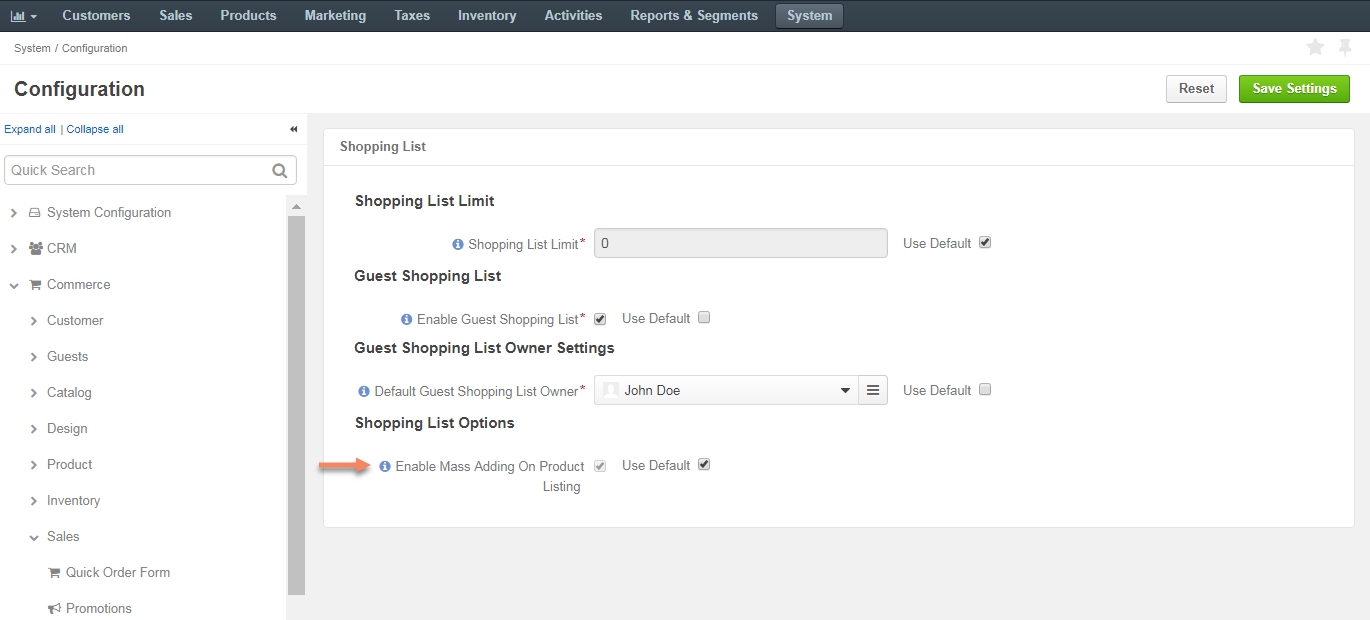
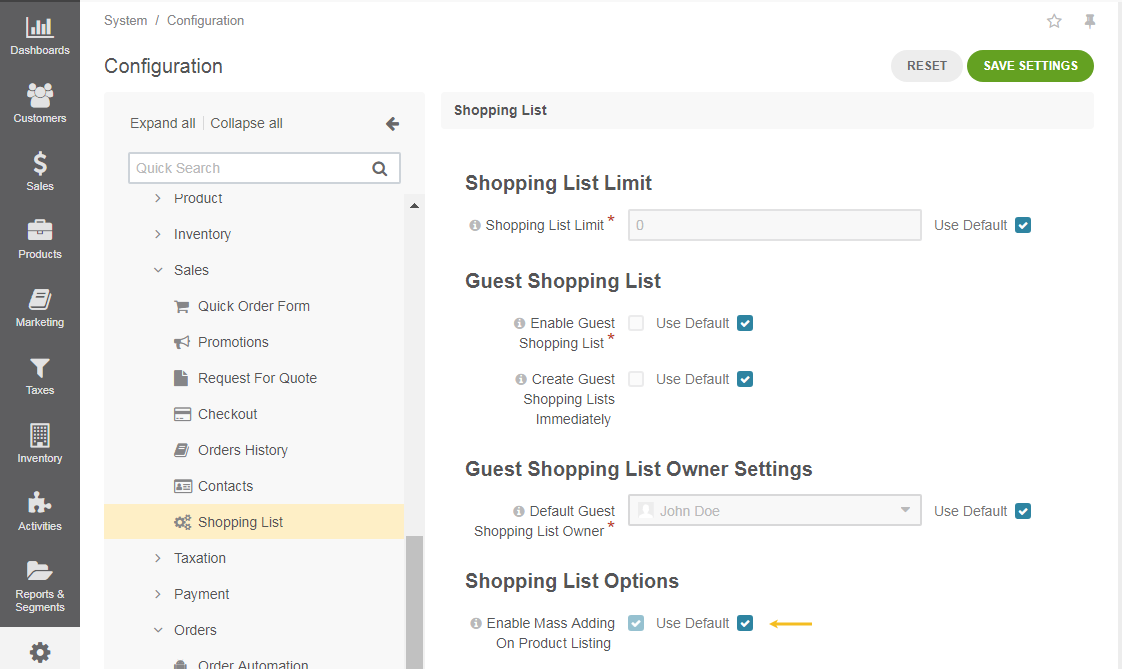
DOC-941: On Demand Guest Shopping List (Master) (#20247)
* DOC-941: WIP for global setting

* DOC-941: WIP for global setting

* DOC-941:WIP

* DOC-941: WIP

diff --git a/admin_guide/landing_commerce/sales/checkout/guest_access/guest_shopping_list_global.rst b/admin_guide/landing_commerce/sales/checkout/guest_access/guest_shopping_list_global.rst
@@ -10,20 +10,22 @@ To enable guest shopping lists globally:
 1. In the main menu, navigate to **System > Configuration**.
 2. Select **Commerce > Sales > Shopping List** in the menu to the left.
 
-.. note::
-   For faster navigation between the configuration menu sections, use :ref:`Quick Search <user-guide--system-configuration--quick-search>`.
+   .. note::
+      For faster navigation between the configuration menu sections, use :ref:`Quick Search <user-guide--system-configuration--quick-search>`.
 
-The following page opens:
+   The following page is displayed:
 
-.. image:: /admin_guide/img/configuration/sales/shopping_list/ShopListGlobal.png
+   .. image:: /admin_guide/img/configuration/sales/shopping_list/ShopListGlobal.png
 
 3. In the **Shopping List Limit** section, set the number of shopping lists allowed per customer. The default value is zero. This means that no limit of shopping lists is applied.
-4. In the **Guest Shopping List** section, set whether guests are allowed to create and manage shopping lists.
+4. In the **Guest Shopping List** section, define the following options:
+ 
+   .. note:: To update any of the options, clear *Use Default* check box first.
 
-   By default, guest shopping lists are disabled.
+   * **Enable Guest Shopping List** --- Set whether guests are allowed to create and manage shopping lists. By default, guest shopping lists are disabled. 
 
-   To enable guest shopping lists, clear *Use Default* and select the *Enable Guest Shopping List* check box.
-
+   * **Create Guest Shopping Lists Immediately** --- Enable this option to automatically create shopping lists for all guest users once they access the storefront. By default, this option is disabled and shopping lists are created only when guest users add at least one item to their shopping list.
+   
 5. In the **Guest Shopping List Owner Settings** section, select the user who will be the default owner of all guest shopping lists. Depending on the roles and permissions of the owner, guest shopping lists may or may not be viewed and managed by the users who are subordinated to the owner.
 
    .. note::  To enable users from the same business unit or organization (that the owner belongs to) to view and manage guest shopping lists, adjust permissions for the shopping list entity in their roles accordingly.

diff --git a/admin_guide/landing_commerce/sales/index.rst b/admin_guide/landing_commerce/sales/index.rst
@@ -13,7 +13,7 @@ Learn how to enable the quick order form, promotions, guest shopping lists, esta
 * :ref:`Order History (Open Orders) <configuration--guide--commerce--configuration--sales-order-history>`
 * :ref:`Contacts <sys--conf--commerce--sales--contacts>`
 * :ref:`Shopping List <user-guide--system-configuration--commerce-sales-shopping-list>`
-
+* :ref:`Enable Mass Product Actions <user-guide--system-configuration--commerce-sales-shopping-list--mass-action>`
 
 .. toctree::
    :titlesonly:

diff --git a/admin_guide/landing_commerce/sales/mass_add_sl/global_mass_add_shopping_list.rst b/admin_guide/landing_commerce/sales/mass_add_sl/global_mass_add_shopping_list.rst
@@ -13,7 +13,7 @@ To enable mass product actions globally:
    .. note::
       For faster navigation between the configuration menu sections, use :ref:`Quick Search <user-guide--system-configuration--quick-search>`.
 
-   The following page opens:
+   The following page is displayed:
 
    .. image:: /admin_guide/img/configuration/sales/shopping_list/MassProductActionsSListGlobal.png
 
